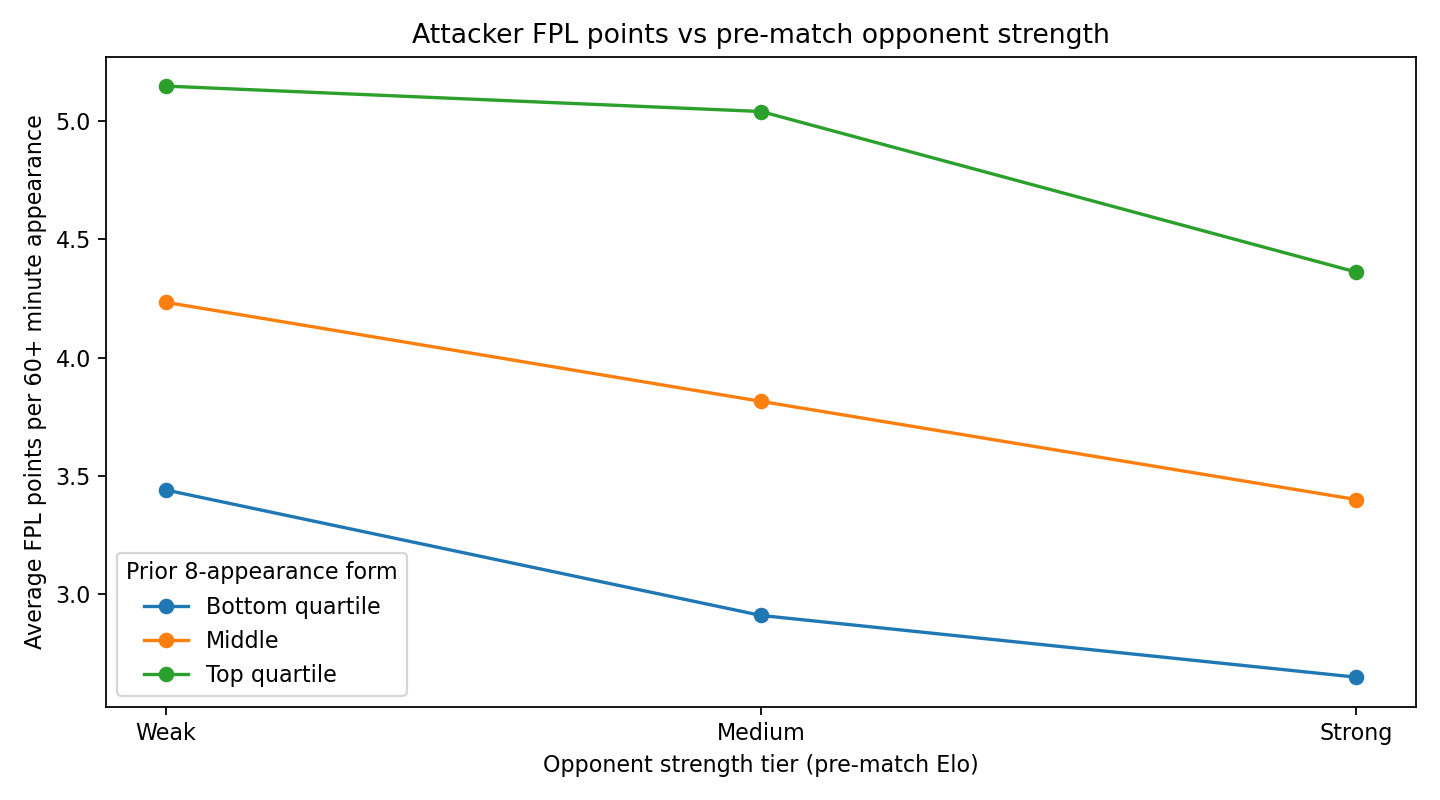
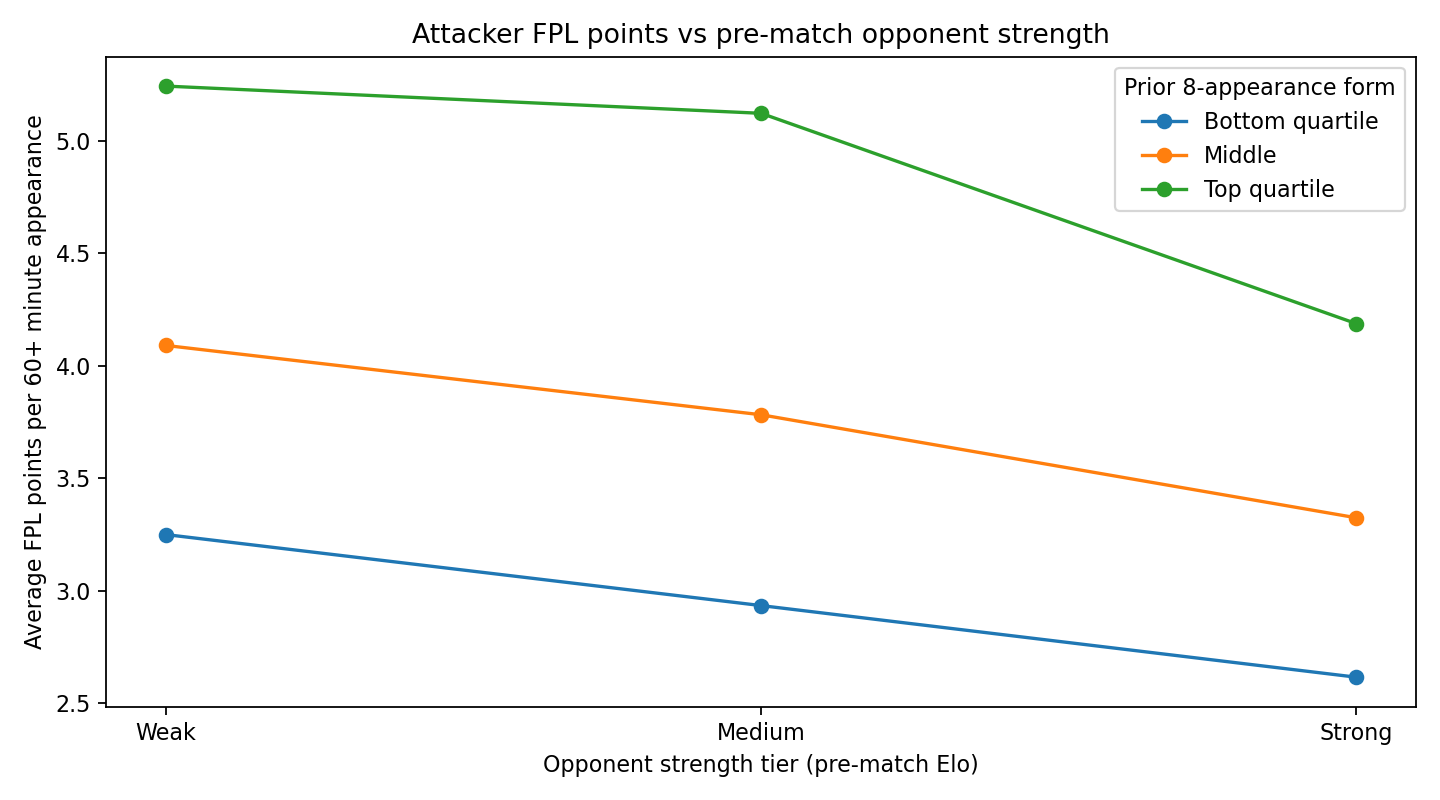
Expand hypothesis analysis through 2024-25

diff --git a/fpl_fixture_hypothesis/fpl_fixture_hypothesis.py b/fpl_fixture_hypothesis/fpl_fixture_hypothesis.py
@@ -1,8 +1,9 @@
 #!/usr/bin/env python3
 """Exploratory FPL fixture-strength hypothesis test.
 
-Downloads historical, public, third-party archived FPL CSVs on the user's computer.
-Does not call the official FPL service. Run: python fpl_fixture_hypothesis.py
+Reads historical, third-party archived FPL CSVs on the user's computer.
+Does not call the official FPL service. Run from the project root with:
+python fpl_fixture_hypothesis/fpl_fixture_hypothesis.py --data-root data
 """
 from __future__ import annotations
 
@@ -18,28 +19,78 @@ import numpy as np
 import pandas as pd
 import statsmodels.api as sm
 
-SEASONS = ("2022-23", "2023-24", "2024-25")
+SEASONS = ("2016-17", "2017-18", "2018-19", "2019-20", "2020-21",
+           "2021-22", "2022-23", "2023-24", "2024-25")
+SUPPORTED_SEASONS = SEASONS + ("2025-26",)
 BASE = "https://raw.githubusercontent.com/vaastav/Fantasy-Premier-League/master/data"
 COLS = ("season", "element", "position", "fixture", "minutes", "total_points", "was_home")
+POSITION_NAMES = {1: "GK", 2: "DEF", 3: "MID", 4: "FWD"}
+
+
+def read_csv(path: Path) -> pd.DataFrame:
+    """Read archive files, including older seasons stored with Latin-1 names."""
+    try:
+        return pd.read_csv(path, low_memory=False)
+    except UnicodeDecodeError:
+        return pd.read_csv(path, low_memory=False, encoding="latin-1")
+
+
+def reconstruct_fixtures(gws: pd.DataFrame) -> pd.DataFrame:
+    """Rebuild the fixture table for 2016-17 and 2017-18 from player-match rows."""
+    p = gws.copy()
+    home_flag = (p["was_home"] if p["was_home"].dtype == bool else
+                 p["was_home"].astype(str).str.lower().eq("true"))
+    p["was_home"] = home_flag
+    event_col = "GW" if "GW" in p else "round"
+    common = (p.groupby("fixture", as_index=False)
+              .agg(event=(event_col, "first"), kickoff_time=("kickoff_time", "first"),
+                   team_h_score=("team_h_score", "first"), team_a_score=("team_a_score", "first")))
+    home = (p.loc[p["was_home"]].groupby("fixture", as_index=False)
+            .agg(team_a=("opponent_team", "first")))
+    away = (p.loc[~p["was_home"]].groupby("fixture", as_index=False)
+            .agg(team_h=("opponent_team", "first")))
+    fixtures = common.merge(home, on="fixture", validate="one_to_one").merge(
+        away, on="fixture", validate="one_to_one")
+    fixtures = fixtures.rename(columns={"fixture": "id"})
+    if len(fixtures) != p["fixture"].nunique():
+        raise ValueError("Could not reconstruct every fixture from gameweek rows")
+    return fixtures
+
+
+def add_positions(gws: pd.DataFrame, players: pd.DataFrame) -> pd.DataFrame:
+    if "position" in gws:
+        return gws
+    lookup = players.set_index("id")["element_type"].map(POSITION_NAMES)
+    out = gws.copy()
+    out["position"] = pd.to_numeric(out["element"], errors="coerce").map(lookup)
+    if out["position"].isna().any():
+        missing = out.loc[out["position"].isna(), "element"].nunique()
+        raise ValueError(f"Could not map positions for {missing} player IDs")
+    return out
 
 
 def download_season(season: str, cache: Path, data_root: Path | None = None) -> tuple[pd.DataFrame, pd.DataFrame]:
     if data_root is not None:
-        paths = {
-            "gws": data_root / season / "gws" / "merged_gw.csv",
-            "fixtures": data_root / season / "fixtures.csv",
-        }
-        for name, path in paths.items():
-            if not path.is_file():
-                raise FileNotFoundError(f"Missing {season} {name}: {path}")
-        return (pd.read_csv(paths["gws"], low_memory=False),
-                pd.read_csv(paths["fixtures"], low_memory=False))
+        gws_path = data_root / season / "gws" / "merged_gw.csv"
+        players_path = data_root / season / "players_raw.csv"
+        fixtures_path = data_root / season / "fixtures.csv"
+        if not gws_path.is_file():
+            raise FileNotFoundError(f"Missing {season} gameweeks: {gws_path}")
+        p = read_csv(gws_path)
+        if "position" not in p:
+            if not players_path.is_file():
+                raise FileNotFoundError(f"Missing {season} player metadata: {players_path}")
+            p = add_positions(p, read_csv(players_path))
+        f = read_csv(fixtures_path) if fixtures_path.is_file() else reconstruct_fixtures(p)
+        return p, f
     paths = {
         "gws": (f"{BASE}/{season}/gws/merged_gw.csv", cache / f"{season}_merged_gw.csv"),
-        "fixtures": (f"{BASE}/{season}/fixtures.csv", cache / f"{season}_fixtures.csv"),
+        "players": (f"{BASE}/{season}/players_raw.csv", cache / f"{season}_players_raw.csv"),
     }
-    out = {}
+    out: dict[str, pd.DataFrame] = {}
     for k, (url, path) in paths.items():
+        if k == "players" and "gws" in out and "position" in out["gws"]:
+            continue
         if not path.exists() or path.stat().st_size == 0:
             print(f"Downloading {season} {k} from third-party historical repository...")
             path.parent.mkdir(parents=True, exist_ok=True)
@@ -48,8 +99,16 @@ def download_season(season: str, cache: Path, data_root: Path | None = None) -> 
             except Exception:
                 path.unlink(missing_ok=True)
                 raise
-        out[k] = pd.read_csv(path, low_memory=False)
-    return out["gws"], out["fixtures"]
+        out[k] = read_csv(path)
+    p = add_positions(out["gws"], out["players"]) if "position" not in out["gws"] else out["gws"]
+    fixture_path = cache / f"{season}_fixtures.csv"
+    if season in ("2016-17", "2017-18"):
+        f = reconstruct_fixtures(p)
+    else:
+        if not fixture_path.exists() or fixture_path.stat().st_size == 0:
+            urllib.request.urlretrieve(f"{BASE}/{season}/fixtures.csv", fixture_path)
+        f = read_csv(fixture_path)
+    return p, f
 
 
 def pre_match_elo(fixtures: pd.DataFrame, k: float = 24.0, home_bonus: float = 65.0) -> pd.DataFrame:
@@ -270,7 +329,7 @@ def main():
     parser.add_argument("--cache", type=Path, default=Path(__file__).resolve().parent / "data")
     parser.add_argument("--data-root", type=Path, help="Local archive data directory with season subfolders")
     parser.add_argument("--out", type=Path, default=Path(__file__).resolve().parent / "results")
-    parser.add_argument("--seasons", nargs="+", choices=SEASONS, default=list(SEASONS))
+    parser.add_argument("--seasons", nargs="+", choices=SUPPORTED_SEASONS, default=list(SEASONS))
     args = parser.parse_args()
     players, fixtures = get_fixture_data(tuple(args.seasons), args.cache, args.data_root)
     print(f"Loaded {len(players):,} attacker-fixture rows and {len(fixtures):,} fixtures")

diff --git a/fpl_fixture_hypothesis/README.md b/fpl_fixture_hypothesis/README.md
@@ -11,7 +11,9 @@ downloaded archive in the project-level `data/` directory, run from the project 
 python fpl_fixture_hypothesis/fpl_fixture_hypothesis.py --data-root data
 ```
 
-This reads local CSVs only. Alternatively, the script can download the archived CSVs:
+This reads local CSVs only. The default hypothesis sample stops at 2024–25 so that
+2025–26 remains available as a held-out prediction test. Alternatively, the script
+can download the archived CSVs:
 
 ```bash
 python -m pip install pandas numpy matplotlib statsmodels
@@ -22,7 +24,10 @@ python fpl_fixture_hypothesis.py
 
 ## Scope
 
-- Seasons: 2022–23, 2023–24, 2024–25.
+- Seasons: every completed season from 2016–17 through 2024–25. The archive lacks
+  standalone fixture tables for 2016–17 and 2017–18, so the script reconstructs
+  those fixtures from the player-match rows. Position labels missing from older
+  gameweek files are joined from each season's `players_raw.csv`.
 - An observation is a player **in one match**, not an entire gameweek (double gameweeks count as multiple matches).
 - Primary analysis: midfielders and forwards who played at least 60 minutes, in gameweek 9 onward, and already had at least five earlier appearances of 60+ minutes in the same season.
 - Outcome: actual FPL points in that match.
@@ -53,7 +58,9 @@ python fpl_fixture_hypothesis.py
 2. The Elo approach is a starting model. More rigorous follow-up: carry ratings across seasons with promotion/relegation adjustments, distinguish attack/defence strength, or use independent pre-match bookmaker odds as a validation source.
 3. Prior-form estimates may be volatile with only five earlier qualifying appearances; check sensitivity to longer history.
 4. The relationship may be nonlinear; a next iteration should use opponent-strength bins or smooth curves and test home/away and MID/FWD interactions separately.
-5. FPL scoring and data collection may vary across seasons. Validate missing rows, duplicates, and scoring rules before inference beyond these seasons.
+5. FPL scoring and data collection vary across seasons. The script normalizes the
+   fields needed here, but comparisons across eras can still reflect rule and data
+   collection changes.
 6. Points per fixture differ from points per gameweek. The eventual squad simulation must handle blank/double gameweeks and player availability.
 7. The historical community archive is not a guarantee of unrestricted rights to the underlying league data. Review licensing/terms if distributing derived datasets.
 8. Regenerate the outputs from the local archive before interpreting them. Do **not** interpret placeholder/synthetic tests as football evidence.
